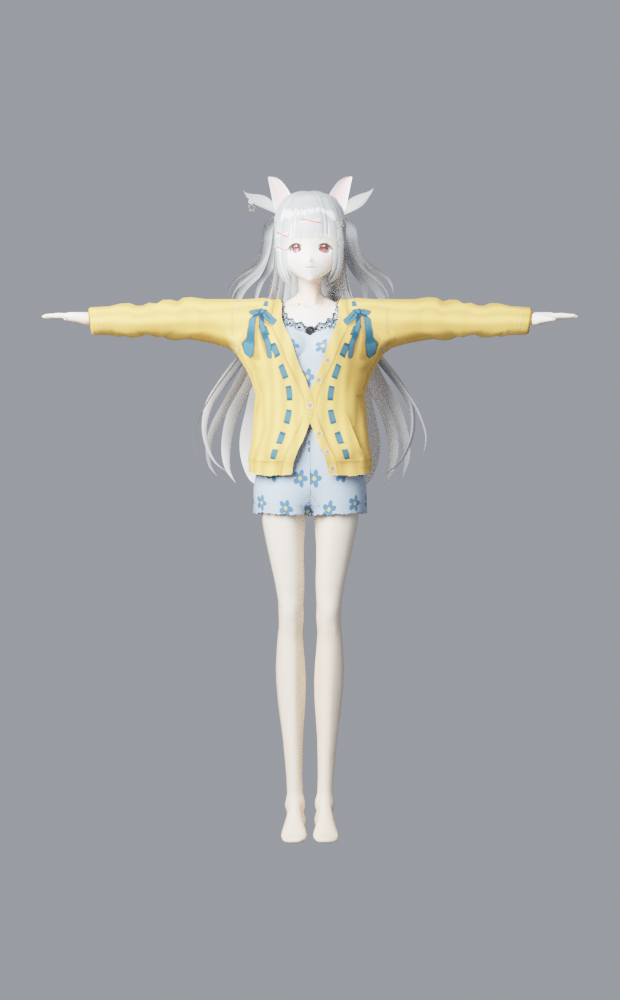
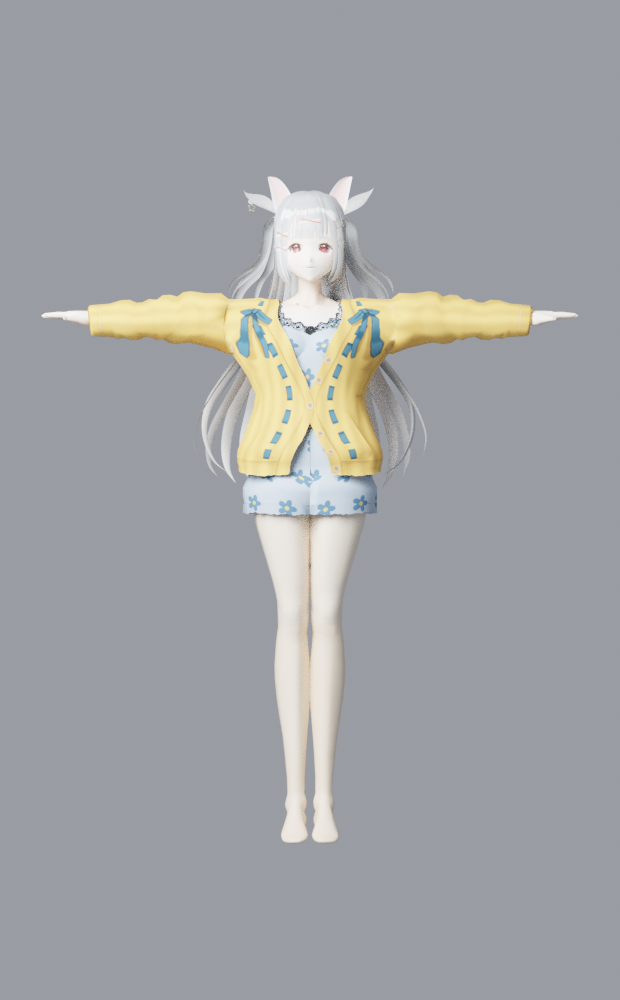
Fix hair weighted to bones that do not exist, and give her an adult silhouette
The hair sat crooked because two thirds of its skin weight pointed at nothing.
Measured on the grafted mesh: 125 vertex groups, of which exactly ONE matches a
bone in this armature; the other twenty name the donor's hair joints, which came
across as group names when the wig was grafted but not as bones. They carry 6098
of weight against 3378 on the one real bone, and 5320 of the 9476 vertices have
no weight on a real bone at all -- so over half the hair was not attached to the
skeleton and simply stayed behind while the head moved. It also explains why
this hair never answered to posing: the joints meant to move it are absent.
Re-homing that weight onto the head bone makes the whole mass move as one piece,
which is what it was already pretending to be.

Width is the other half of not reading as a child, and head-count alone does not
get there: a child is not a short adult, but a narrow straight one. So the
silhouette now takes a profile of width against height -- shoulder and hip wide,
waist drawn in between them -- rather than a single number.

Two parts of that needed their own rule rather than the torso's. Scaling a leg
outward from the body's centre line only slides it away from its twin, so legs
are thickened about their own axis instead; they were the stick-thin part that
kept her reading as a doll. Arms likewise, about the axis they lie along in the
rest pose -- left out of the first pass they stayed the narrowest thing on her
[…]

diff --git a/CharacterPrototype/tools/blender_proportions.py b/CharacterPrototype/tools/blender_proportions.py
@@ -52,6 +52,135 @@ def log(*a):
     print("[proportions]", *a)
 
 
+# --- Silhouette width --------------------------------------------------------
+# Head-count alone does not stop a figure reading as a child, because a child is
+# not just a short adult -- a child's torso is narrow and straight, and an adult
+# woman's is wider at the shoulder and wider again at the hip with a waist drawn
+# in between them. That contrast is what the eye reads as grown, so it is a
+# profile of width against height rather than one number.
+#
+# Measured in the rest pose, in metres of height, as (z, width multiplier):
+WIDTH_PROFILE = [
+    (1.320, 1.00),   # neck -- untouched, or she gets a wrestler's collar
+    (1.245, 1.15),   # shoulder
+    (1.150, 1.08),   # ribs
+    (1.020, 0.98),   # waist, drawn in against the two either side of it
+    (0.900, 1.20),   # hip -- the widest point
+    (0.820, 1.14),   # where the legs part; below this the torso rule stops
+]
+# Depth follows width at a fraction of it: a body that widens without deepening
+# reads as flattened, like a figure pressed in a book.
+DEPTH_SHARE = 0.55
+
+# Below this the body is two legs rather than one torso, and the rule changes.
+LEG_TOP_Z = 0.820
+# Legs are thickened about their OWN axis, not about the body's. Scaling a leg
+# outward from the centre line only moves it sideways -- it was doing nothing
+# for the stick-thin look, which is a large part of why she still read as a
+# doll. This is roughly where each leg's axis sits in the rest pose.
+LEG_AXIS_X = 0.072
+LEG_THICKEN = [
+    (0.820, 1.38),   # top of the thigh
+    (0.520, 1.24),   # knee
+    (0.230, 1.20),   # calf
+    (0.060, 1.04),   # ankle
+]
+
+# Arms, thickened about their own axis too. Untouched they stay stick-thin
+# while the body fills out, which reads worse than either on its own -- the
+# base model's arms are the narrowest thing on her. In the rest pose they lie
+# along x at about this height, so the cross-section to scale is (y, z).
+ARM_AXIS_Z = 1.222
+ARM_START_X = 0.205
+ARM_THICKEN = [
+    (0.640, 1.10),   # wrist -- the far end, in |x| rather than z
+    (0.205, 1.26),   # shoulder end
+]
+
+# The profile is applied to the torso only. In the rest pose her arms lie along
+# x at roughly shoulder height, so scaling x there would stretch the arms
+# outward -- lengthening them rather than thickening the body. The scaling
+# fades out between these two, which puts the blend in the shoulder.
+TORSO_HALF_WIDTH = 0.175
+ARM_BLEND_END = 0.265
+# Widening the body without widening what it wears pushes her through her own
+# clothes, so this runs over every mesh that is not part of her head.
+WIDEN_EXCLUDE = ("Face", "Hair", "Ear", "Braid")
+
+
+def _profile_at(z, profile=WIDTH_PROFILE):
+    """Linear interpolation down the table, flat outside its ends."""
+    if z >= profile[0][0]:
+        return profile[0][1]
+    if z <= profile[-1][0]:
+        return profile[-1][1]
+    for (z0, w0), (z1, w1) in zip(profile, profile[1:]):
+        if z1 <= z <= z0:
+            t = (z0 - z) / (z0 - z1)
+            return w0 + (w1 - w0) * t
+    return 1.0
+
+
+def widen_silhouette(arm, profile=WIDTH_PROFILE, depth_share=DEPTH_SHARE,
+                     strength=1.0):
+    """Give her an adult's width, as an edit to the rest mesh.
+
+    Applied as an offset that fades out toward the arms rather than a flat
+    multiply, so the torso broadens while the arms keep their length.
+    """
+    moved = 0
+    for obj in character_meshes(arm):
+        if any(k in obj.name for k in WIDEN_EXCLUDE):
+            continue
+        mesh = obj.data
+        for vert in mesh.vertices:
+            x, y, z = vert.co
+            if z < LEG_TOP_Z:
+                # Thicken each leg about its own axis, so it gets rounder
+                # instead of merely moving further from its twin.
+                gain = (_profile_at(z, LEG_THICKEN) - 1.0) * strength
+                if abs(gain) < 1e-5:
+                    continue
+                axis = LEG_AXIS_X if x >= 0 else -LEG_AXIS_X
+                vert.co = (axis + (x - axis) * (1 + gain),
+                           y * (1 + gain),
+                           z)
+                moved += 1
+                continue
+
+            reach = abs(x)
+            if reach >= ARM_START_X:
+                # Arm: scale its cross-section about the arm's own axis. The
+                # profile is read against |x| here, since an arm in the rest
+                # pose runs along x rather than up z.
+                span = (ARM_THICKEN[0][0] - reach) / (ARM_THICKEN[0][0] - ARM_THICKEN[1][0])
+                span = min(max(span, 0.0), 1.0)
+                arm_gain = (ARM_THICKEN[0][1] + span *
+                            (ARM_THICKEN[1][1] - ARM_THICKEN[0][1]) - 1.0) * strength
+                vert.co = (x,
+                           y * (1 + arm_gain),
+                           ARM_AXIS_Z + (z - ARM_AXIS_Z) * (1 + arm_gain))
+                moved += 1
+                continue
+
+            gain = (_profile_at(z, profile) - 1.0) * strength
+            if abs(gain) < 1e-5:
+                continue
+            if reach >= ARM_BLEND_END:
+                continue
+            if reach > TORSO_HALF_WIDTH:
+                fade = 1.0 - (reach - TORSO_HALF_WIDTH) / (ARM_BLEND_END - TORSO_HALF_WIDTH)
+            else:
+                fade = 1.0
+            vert.co = (x * (1 + gain * fade),
+                       y * (1 + gain * depth_share * fade),
+                       z)
+            moved += 1
+        mesh.update()
+    log(f"widened {moved} vertices toward an adult silhouette")
+    return moved
+
+
 def character_meshes(arm):
     """Only the meshes that belong to this character.
 
@@ -185,9 +314,13 @@ def fit_height(root, arm, target_height):
     bpy.context.view_layer.update()
 
 
-def restyle(root, arm, target="bishoujo", head_share=0.55):
+def restyle(root, arm, target="bishoujo", head_share=0.55, widen=True):
     before = measure(arm)
     report("before", before)
+    if widen:
+        # Width first: it edits the rest mesh, and the head-count solve that
+        # follows measures the figure it actually produces.
+        widen_silhouette(arm)
     head_scale, leg_scale = solve(arm, target, head_share)
     fit_height(root, arm, TARGETS[target][0])
     after = measure(arm)

diff --git a/CharacterPrototype/tools/blender_hair.py b/CharacterPrototype/tools/blender_hair.py
@@ -28,6 +28,8 @@ OUT_DIR = os.path.join(PROJECT, "assets", "blender")
 
 TAU = math.pi * 2
 
+HEAD_BONE_FALLBACK = "J_Bip_C_Head"
+
 # Fraction of a braid's length over which the strands converge at the root.
 ROOT_GATHER = 0.10
 
@@ -264,6 +266,53 @@ def build_ribbon_tie(name, centre, tangent, radius=0.026, thickness=0.011):
     obj.scale = (1, 1, 1)
     bpy.context.scene.collection.objects.link(obj)
     return obj
+
+
+# --- Repairing the grafted hair ---------------------------------------------
+
+def repair_grafted_weights(armature, fallback_bone=HEAD_BONE_FALLBACK):
+    """Re-home skin weights that point at bones the graft left behind.
+
+    Measured on the grafted hair: 125 vertex groups, of which exactly ONE
+    matches a bone in this armature. The other twenty name the donor's own hair
+    joints, which came across as group names but not as bones, and they carry
+    6098 of weight against 3378 on the one real bone -- nearly twice as much.
+    Over half the hair's vertices (5320 of 9476) have no weight on a real bone
+    at all.
+
+    The visible result is hair that sits crooked and tears away from the head,
+    because a vertex weighted only to absent bones is not deformed at all while
+    its neighbours follow the skull. It also explains why this hair never
+    responded to posing: the joints that were supposed to move it do not exist.
+
+    Handing that weight to the head bone makes the whole mass move as one
+    rigid piece, which is what it was already pretending to be.
+    """
+    bones = {b.name for b in armature.data.bones}
+    repaired_verts = 0
+    for obj in bpy.data.objects:
+        if obj.type != "MESH" or not any(k in obj.name for k in ("Hair", "Ear")):
+            continue
+        dead = [g for g in obj.vertex_groups if g.name not in bones]
+        if not dead:
+            continue
+        dead_indices = {g.index for g in dead}
+        target = obj.vertex_groups.get(fallback_bone) or obj.vertex_groups.new(
+            name=fallback_bone)
+
+        for vert in obj.data.vertices:
+            stray = sum(g.weight for g in vert.groups if g.group in dead_indices)
+            if stray <= 0:
+                continue
+            held = next((g.weight for g in vert.groups if g.group == target.index), 0.0)
+            target.add([vert.index], held + stray, "REPLACE")
+            repaired_verts += 1
+
+        for group in dead:
+            obj.vertex_groups.remove(group)
+        print(f"[hair] {obj.name}: re-homed {len(dead)} orphaned groups "
+              f"onto {fallback_bone}")
+    return repaired_verts
 
 
 # --- Attaching to a head ----------------------------------------------------

diff --git a/CharacterPrototype/tools/blender_character.py b/CharacterPrototype/tools/blender_character.py
@@ -816,6 +816,13 @@ def build_character():
     log(f"character bounds (pre feet-to-zero shift): {tuple(mn)} {tuple(mx)}; "
         f"root lifted by {-mn.z:.4f}")
 
+    # The graft brings the donor's hair mesh across but not the donor's hair
+    # bones, leaving two thirds of its skin weight pointing at joints that do
+    # not exist in this armature -- which is why the hair sat crooked and never
+    # answered to posing. Re-home that weight before handing the character over.
+    import blender_hair
+    blender_hair.repair_grafted_weights(armature)
+
     return root, armature
 
 
